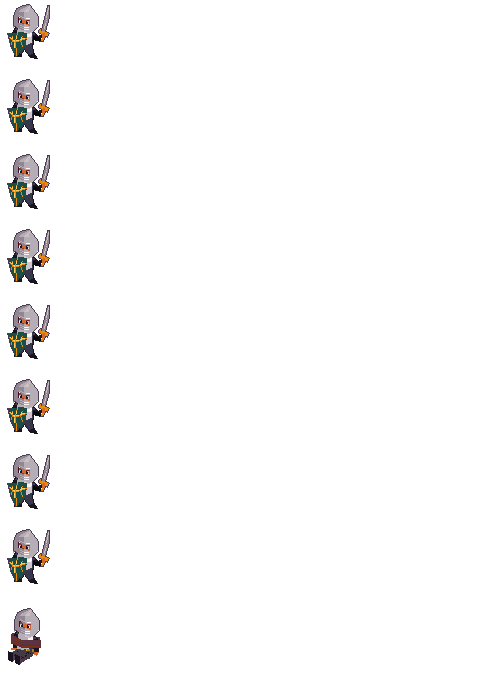
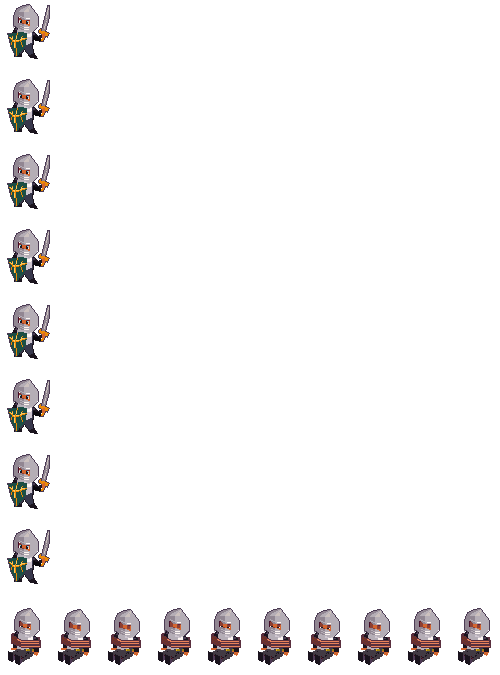
Warrior is inserted in game.

diff --git a/js/main.js b/js/main.js
@@ -60,7 +60,7 @@ function imageLoadingDoneSoStartGame(){
 		drawEverything();
 	}, 1000/framesPerSecond);
 	loadLevel(levelOne);
-	playerOne.init(wizardPic, "Nesquit");
+	playerOne.init(wizardPic, "Nesquit", TILE_PLAYER);
 }
 
 function nextLevel() {
@@ -132,6 +132,9 @@ function loadLevel(whichLevel) {
 	for(var i = 0; i<enemyList.length; i++){
 		addCreatureTurn("Enemy " + (i+1))
 	}
+	for(var i = 0; i<playerList.length; i++){
+		addCreatureTurn("Player " + (i+1))
+	}
 	console.log("Finish Load Level");
 }
 		
@@ -160,7 +163,11 @@ function moveEverything() {
 		}
 		for(i = 0; i < enemyList.length; i++){
 			enemyList[i].movement();
+		}
+		for(i = 0; i < playerList.length; i++){
+			playerList[i].movement();
 		} 
+
 		checkPlayerOptionBoxes();
 	}
 	
@@ -219,6 +226,9 @@ function drawEverything() {
 		};
 		for(var i = 0; i < enemyList.length; i++){
 			enemyList[i].draw();
+		};
+		for(var i = 0; i < playerList.length; i++){
+			playerList[i].draw();
 		};
 		for(i = 0; i<smokeList.length; i++){
 			smokeList[i].draw();

diff --git a/js/world/world.js b/js/world/world.js
@@ -38,7 +38,7 @@ var levelOne = [
 					 52, 18,  1,  1,  1,  1,  1,  3,  1,  1,  1, 19,  4,  1,  1,  1,  1,  1,  1,  1,
 					 54, 14,  1,  1,  1,  1,155,  1,  3,  1,  1, 19,  1,  1,  1,  1,  4,  1,  1,  1,
 					 52, 12,  1,  1,  1,  1,  1,  3,  1,  1,  1, 19, 19, 19, 19, 19, 19, 19, 19, 19,
-					 52, 12,  1,  1,  1,  1,  1,  1,  1,  1,  1, 19,  1,  1,  1,  1,  1,  1,  1,  1,
+					 52, 12,  1,  1,  1,  1,  1,  1,  1,101,  1, 19,  1,  1,  1,  1,  1,  1,  1,  1,
 					 52, 12,  1,  1,  1,  1,  1,  1,  1,  1,  1, 19,  1,  1,  1,  1,  1,  1,  1,  1,
 					 52, 12,  1,  1,  1,  1,  1,  1,  1,100,  1, 19,  1,  1,  1,  1,  1,  1,  1,  1,
 					 52, 12,  1,  1,  1,  1,  1,  1,  1,  1,  1, 19,  1,  1,  1,  1,  1,  1,  1,  1,

diff --git a/js/player/warrior.js b/js/player/warrior.js
@@ -9,9 +9,11 @@ function addPlayer(playerTileType){
 	if(playerTileType == TILE_WARRIOR){
 		var playerPic = warrriorPic;
 		var playerName = "Lance"
+		var tileType = TILE_WARRIOR;
+		var tiedUp = true;
 	}
 	
-	tempPlayer.init(playerPic, playerName);
+	tempPlayer.init(playerPic, playerName, tileType, tiedUp);
     playerList.push(tempPlayer);
 }
 
@@ -38,8 +40,8 @@ function warriorClass() {
 	}
 
 	this.superInit = this.init;
-	this.init = function (whichGraphic, whichName){
-		this.superInit(whichGraphic, whichName, TILE_PLAYER);
+	this.init = function (whichGraphic, whichName, whichTile, tied){
+		this.superInit(whichGraphic, whichName, whichTile, tied);
 	}
 
 

diff --git a/js/character.js b/js/character.js
@@ -63,9 +63,10 @@ function CharacterBase (){
 		this.popToGrid();
     }
 
-    this.init = function(whichGraphic, whichName, tileTypeMatch) {
+    this.init = function(whichGraphic, whichName, tileTypeMatch, tied) {
         this.myBitmap = whichGraphic;
         this.myName = whichName;
+		this.tiedUp = tied;
         this.reset(tileTypeMatch);
     }
 
